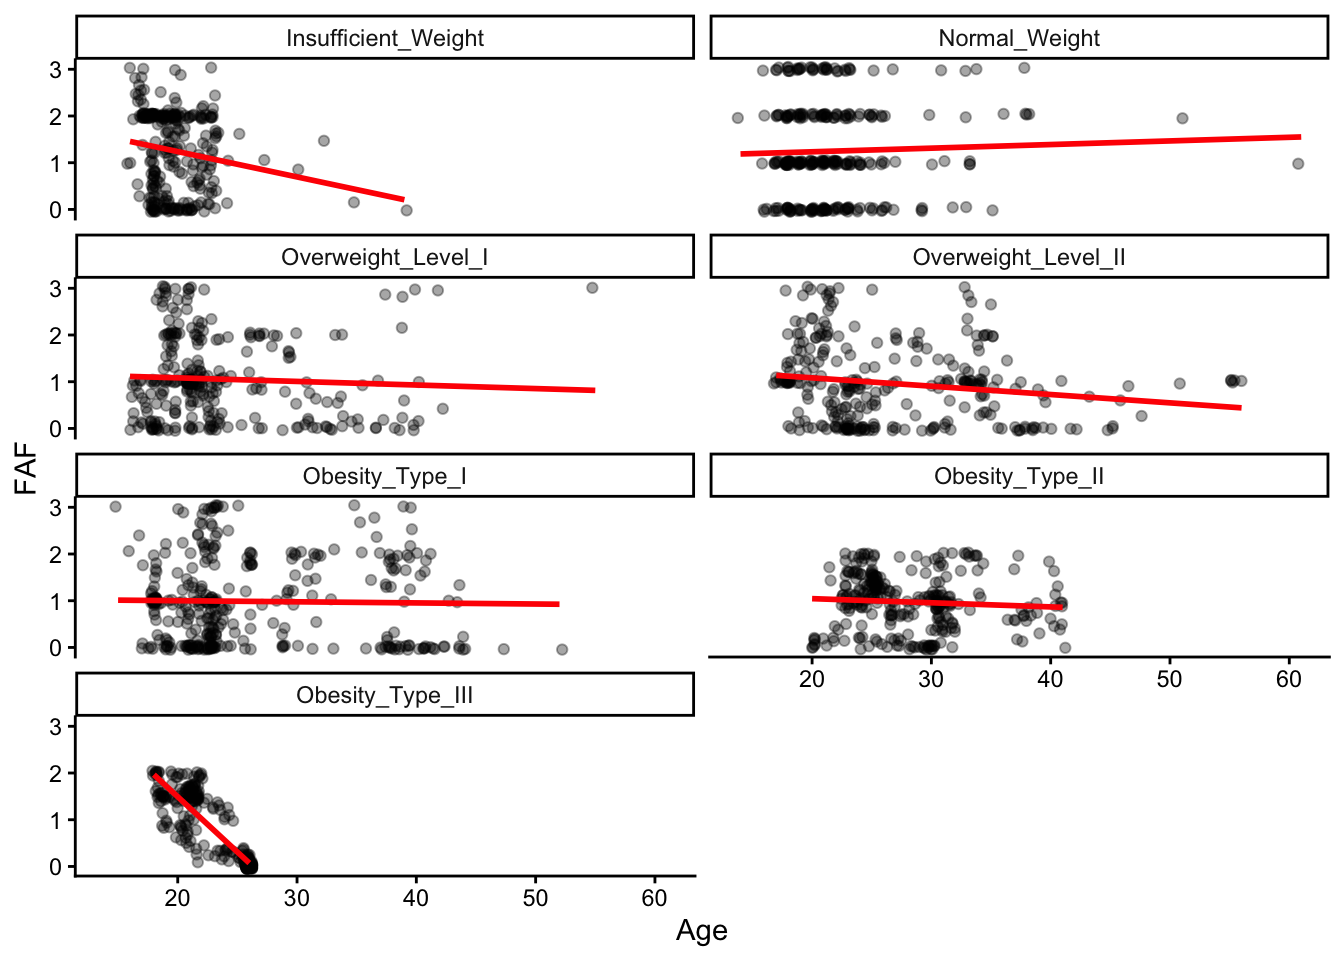
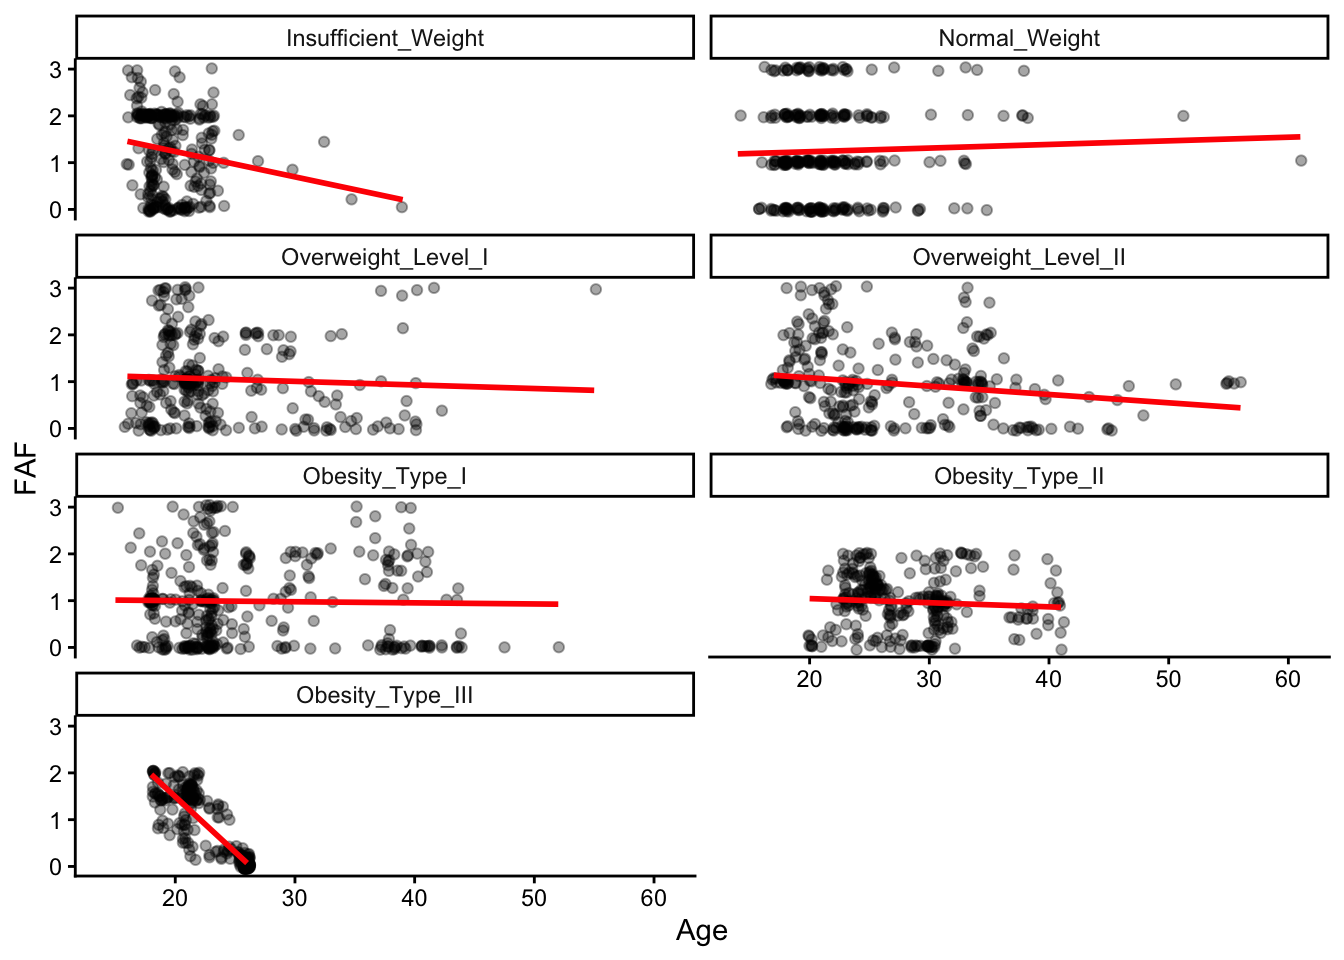
11
11

diff --git a/docs/projects/final-report.html b/docs/projects/final-report.html
@@ -462,7 +462,9 @@ X-squared = 621.98, df = 6, p-value &lt; 2.2e-16</code></pre>
 </figure>
 </div>
 </div>
-<div class="code-copy-outer-scaffold"><div class="sourceCode cell-code" id="cb30"><pre class="sourceCode r code-with-copy"><code class="sourceCode r"><span id="cb30-1"><a href="#cb30-1" aria-hidden="true" tabindex="-1"></a><span class="co"># The Chi-square test showed a significant association between family history and obesity level (χ² = 621.98, p &lt; 0.001). Participants with a family history of obesity were much more common in the higher obesity categories.</span></span></code></pre></div><button title="Copy to Clipboard" class="code-copy-button"><i class="bi"></i></button></div>
+<div class="code-copy-outer-scaffold"><div class="sourceCode cell-code" id="cb30"><pre class="sourceCode r code-with-copy"><code class="sourceCode r"><span id="cb30-1"><a href="#cb30-1" aria-hidden="true" tabindex="-1"></a><span class="co"># The Chi-square test showed a significant association between family history and obesity level (χ² = 621.98, p &lt; 0.001). Participants with a family history of obesity were much more common in the higher obesity categories.</span></span>
+<span id="cb30-2"><a href="#cb30-2" aria-hidden="true" tabindex="-1"></a></span>
+<span id="cb30-3"><a href="#cb30-3" aria-hidden="true" tabindex="-1"></a><span class="co"># Family history may reflect not only genetic predisposition but also shared family habits and environmental influences. Eating behaviors, physical activity patterns, and other lifestyle habits developed during childhood may persist into adulthood and influence the risk of obesity.</span></span></code></pre></div><button title="Copy to Clipboard" class="code-copy-button"><i class="bi"></i></button></div>
 </div>
 </section>
 </section>
